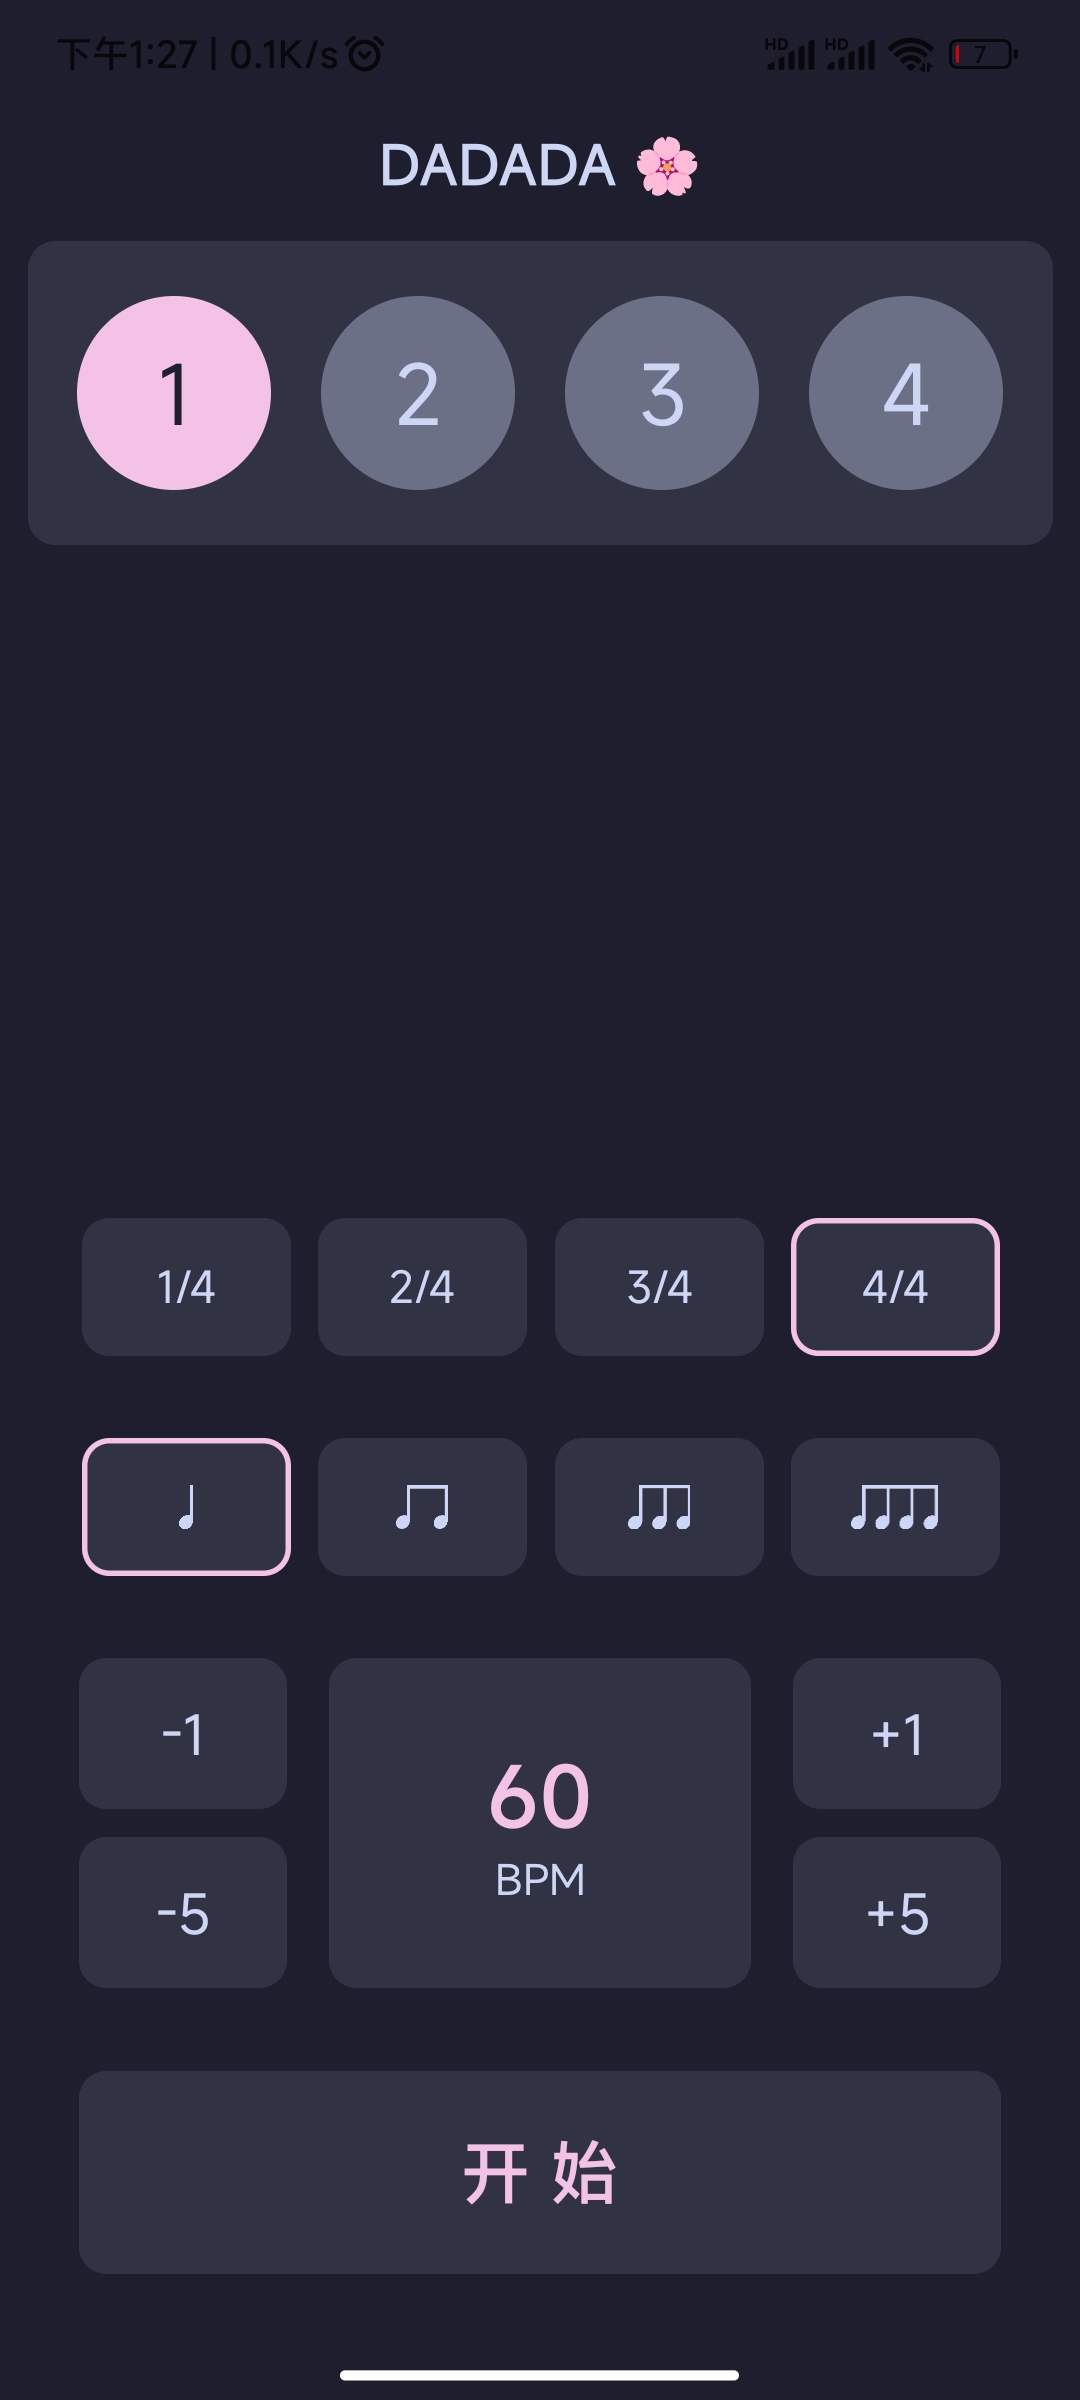
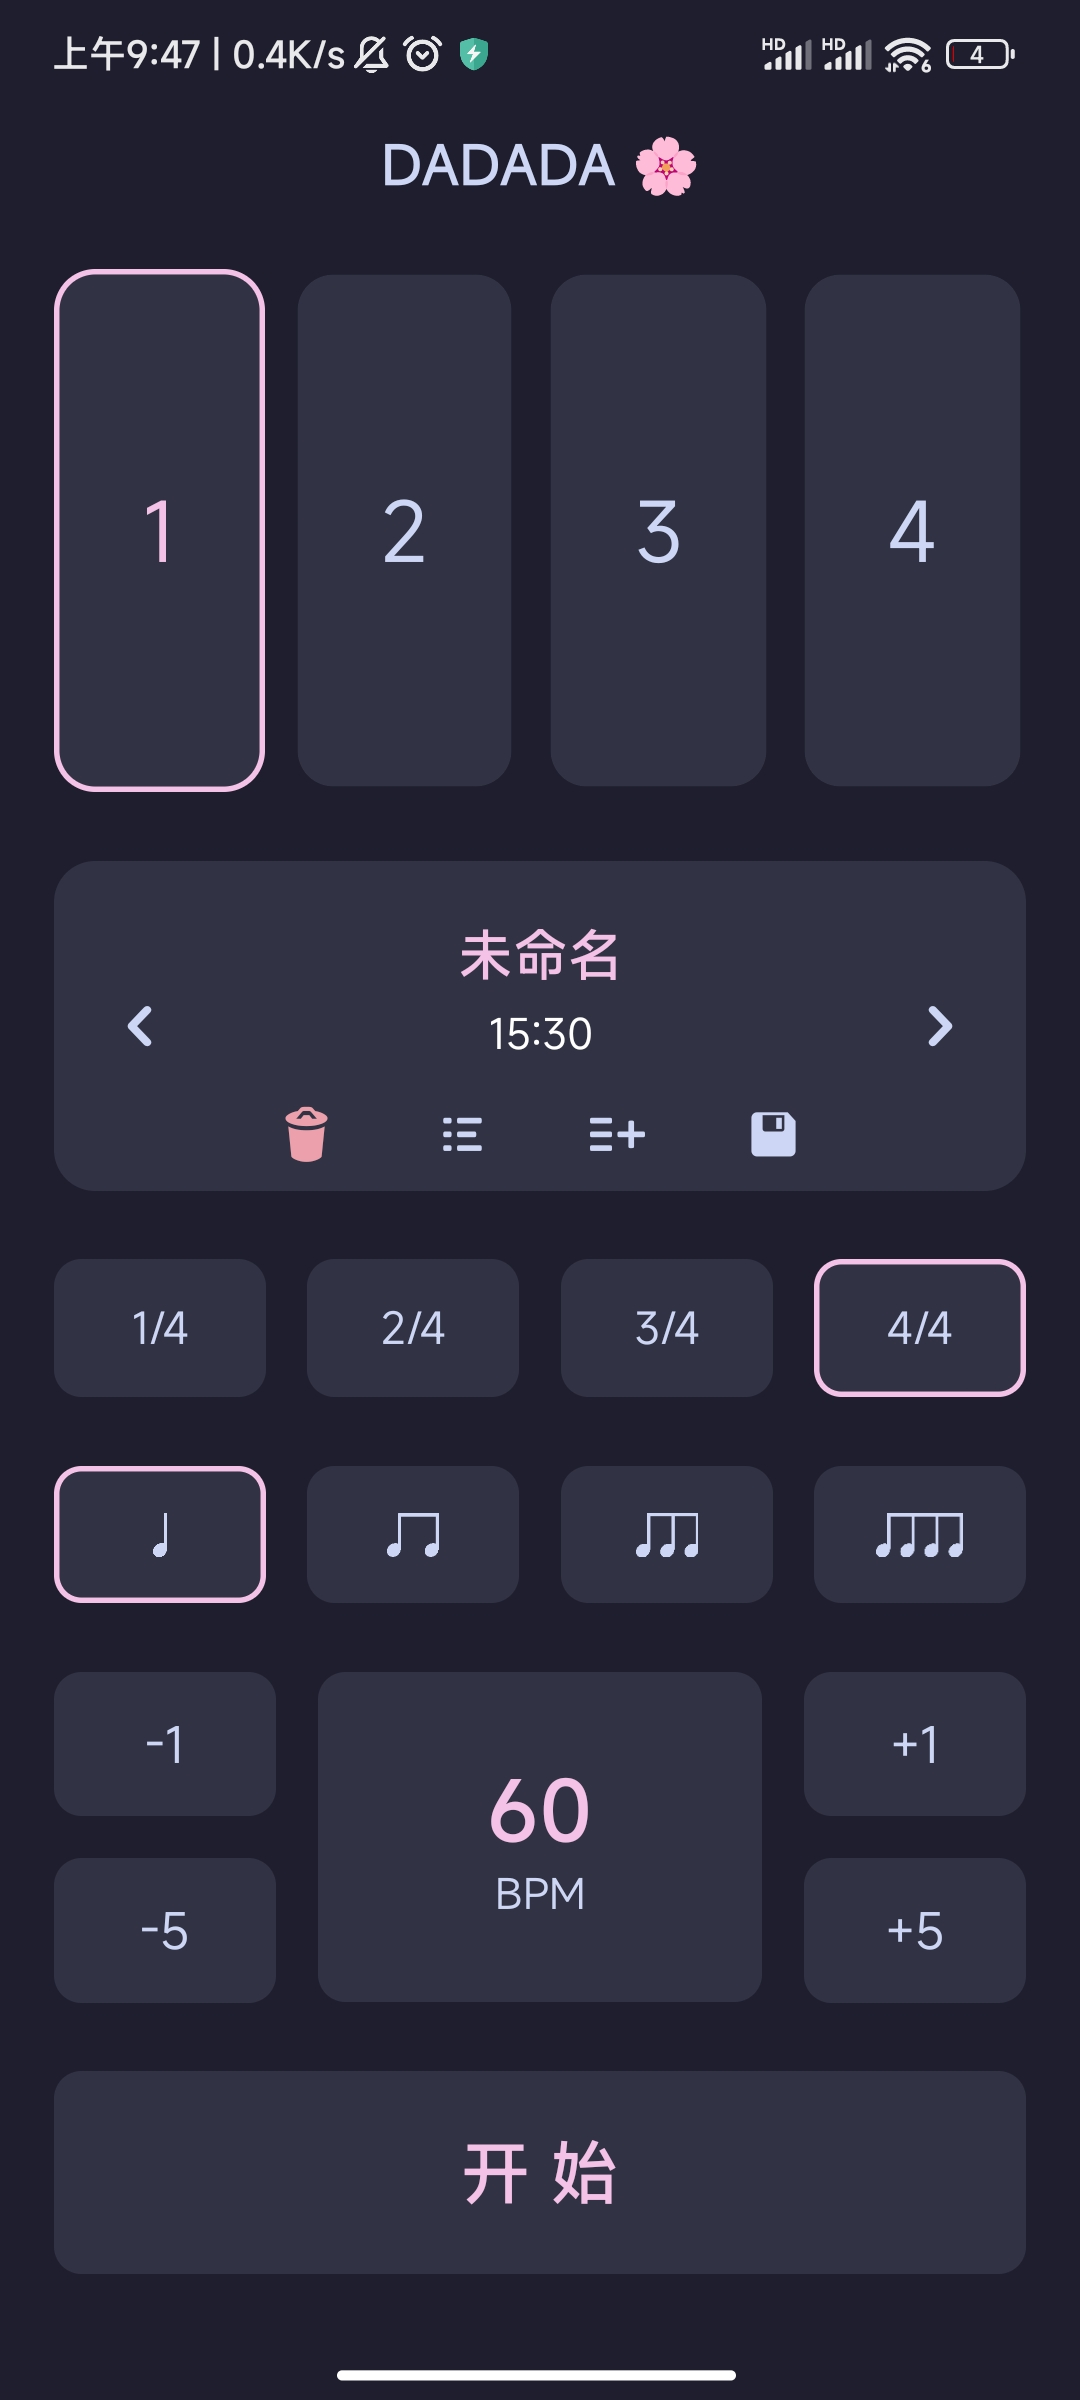
✨ update ui

diff --git a/styles/home.style.ts b/styles/home.style.ts
@@ -4,18 +4,16 @@ import { DARK_THEME } from "../constants/theme";
 export const statedStyle = (radio: number, active: boolean) => {
   return StyleSheet.create({
     iconContainer: {
-      backgroundColor: active ? DARK_THEME.pink : DARK_THEME.overlay0,
-      borderRadius:
-        Math.round(
-          Dimensions.get("window").width + Dimensions.get("window").height
-        ) / 2,
-      width: Dimensions.get("window").width * radio,
-      height: Dimensions.get("window").width * radio,
+      borderColor: active ? DARK_THEME.pink : DARK_THEME.base,
+      borderWidth: 2,
+      backgroundColor: DARK_THEME.surface0,
+      borderRadius: 15,
+      flexGrow: 1,
       justifyContent: "center",
       alignItems: "center",
     },
     iconText: {
-      color: !active ? DARK_THEME.text : DARK_THEME.base,
+      color: active ? DARK_THEME.pink : DARK_THEME.text,
       fontSize: 30,
     },
   });
@@ -32,16 +30,16 @@ export const styles = StyleSheet.create({
     height: "100%",
     justifyContent: "space-between",
     alignItems: "center",
+    gap: 25,
   },
   iconsContainer: {
-    backgroundColor: DARK_THEME.surface0,
+    backgroundColor: DARK_THEME.base,
     flexDirection: "row",
     display: "flex",
-    justifyContent: "space-evenly",
-    paddingTop: 20,
-    paddingBottom: 20,
+    gap: 10,
     borderRadius: 10,
-    width: "95%",
+    width: "90%",
+    flexGrow: 1,
     marginHorizontal: "auto",
     marginTop: 10,
   },

diff --git a/app/Home.tsx b/app/Home.tsx
@@ -88,28 +88,18 @@ function Home() {
         beatState={beatState}
         beatCount={meter.numerator}
       />
-
-      <View
-        style={{
-          gap: 25,
-          justifyContent: "center",
-          alignItems: "center",
-          flexDirection: "column",
-        }}
+      <FileWidget />
+      <MeterWidget handleUpdateMeter={setMeter} meter={meter} />
+      <PatternWidget pattern={pattern} handleUpdatePattern={setPattern} />
+      <TempoWidget tempo={tempo} setTempo={setTempo} />
+      <TouchableOpacity
+        style={styles.switchButton}
+        onPressIn={handleStartPress}
       >
-        <FileWidget />
-        <MeterWidget handleUpdateMeter={setMeter} meter={meter} />
-        <PatternWidget pattern={pattern} handleUpdatePattern={setPattern} />
-        <TempoWidget tempo={tempo} setTempo={setTempo} />
-        <TouchableOpacity
-          style={styles.switchButton}
-          onPressIn={handleStartPress}
-        >
-          <Text style={styles.switchButtonText}>
-            {isStarted ? "暂 停" : "开 始"}
-          </Text>
-        </TouchableOpacity>
-      </View>
+        <Text style={styles.switchButtonText}>
+          {isStarted ? "暂 停" : "开 始"}
+        </Text>
+      </TouchableOpacity>
     </View>
   );
 }

diff --git a/styles/file-widget.style.ts b/styles/file-widget.style.ts
@@ -5,7 +5,7 @@ export const styles = StyleSheet.create({
   outerContainer: {
     flexDirection: "row",
     justifyContent: "space-between",
-    height: 150,
+    height: 120,
     backgroundColor: DARK_THEME.surface0,
     width: Dimensions.get("window").width * 0.9,
     borderRadius: 15,
